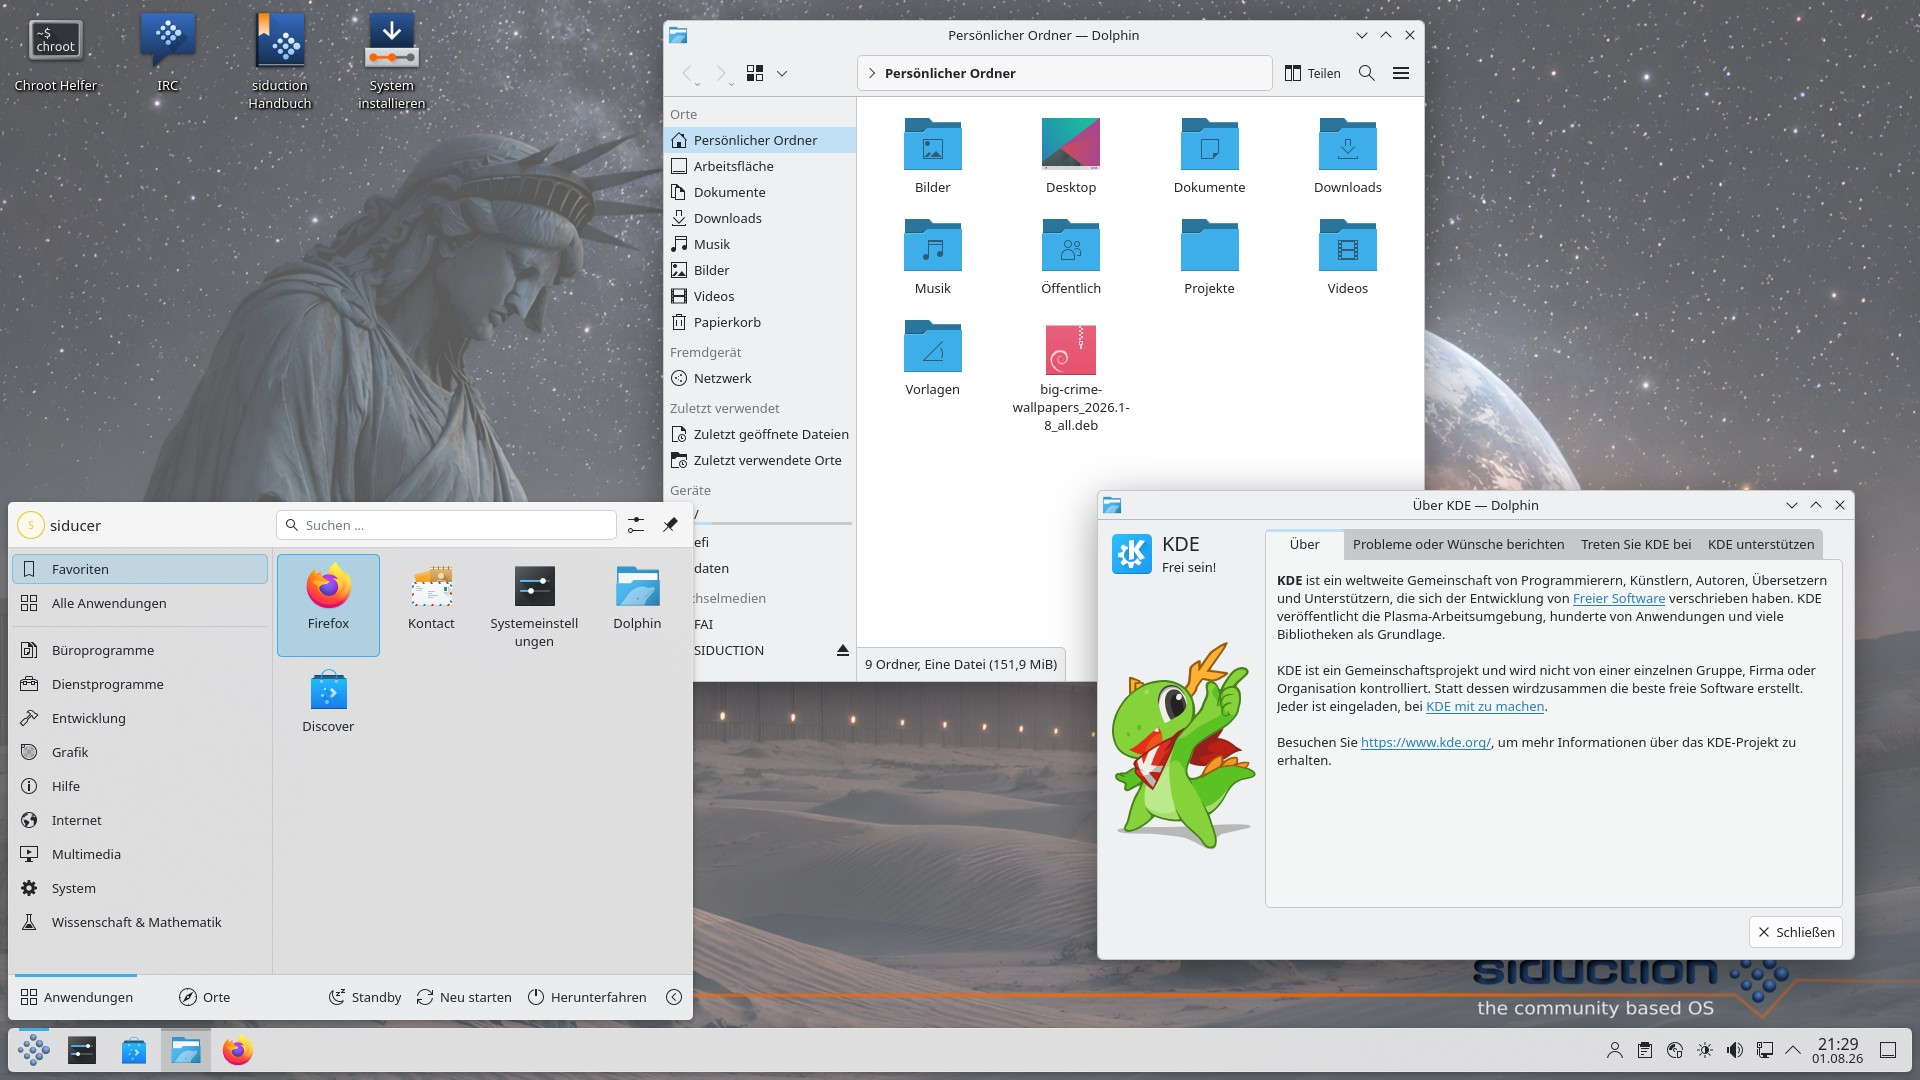
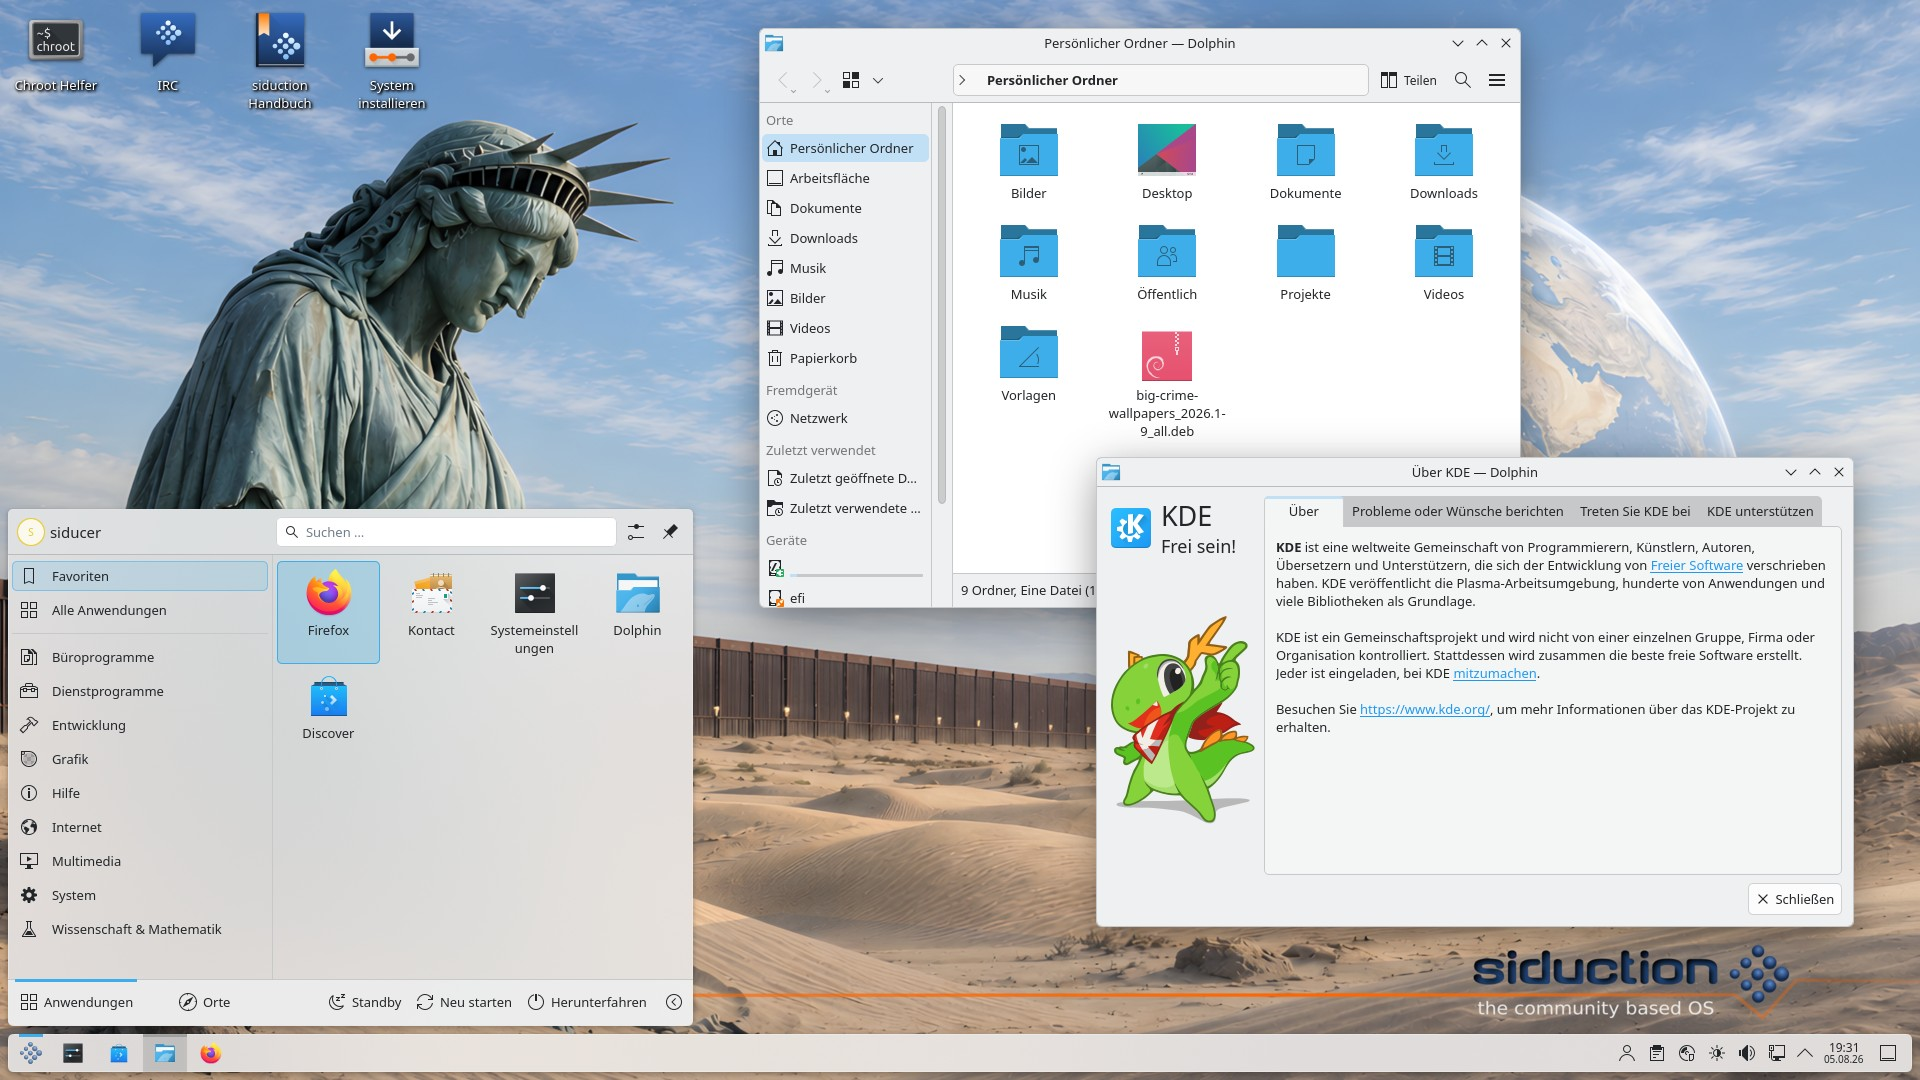
fix previews for light theme

diff --git a/layout-templates/org.big-crime.desktop.defaultPanel/contents/layout.js b/layout-templates/org.big-crime.desktop.defaultPanel/contents/layout.js
@@ -6,7 +6,7 @@ var panelScreen = panel.screen
 // For an Icons-Only Task Manager on the bottom, *3 is too much, *2 is too little
 // Round down to next highest even number since the Panel size widget only displays
 // even numbers
-panel.height = 2 * Math.floor(gridUnit * 2.5 / 2)
+panel.height = 2 * Math.floor(gridUnit * 2.2 / 2)
 
 // Restrict horizontal panel to a maximum size of a 21:9 monitor
 const maximumAspectRatio = 21/9;
